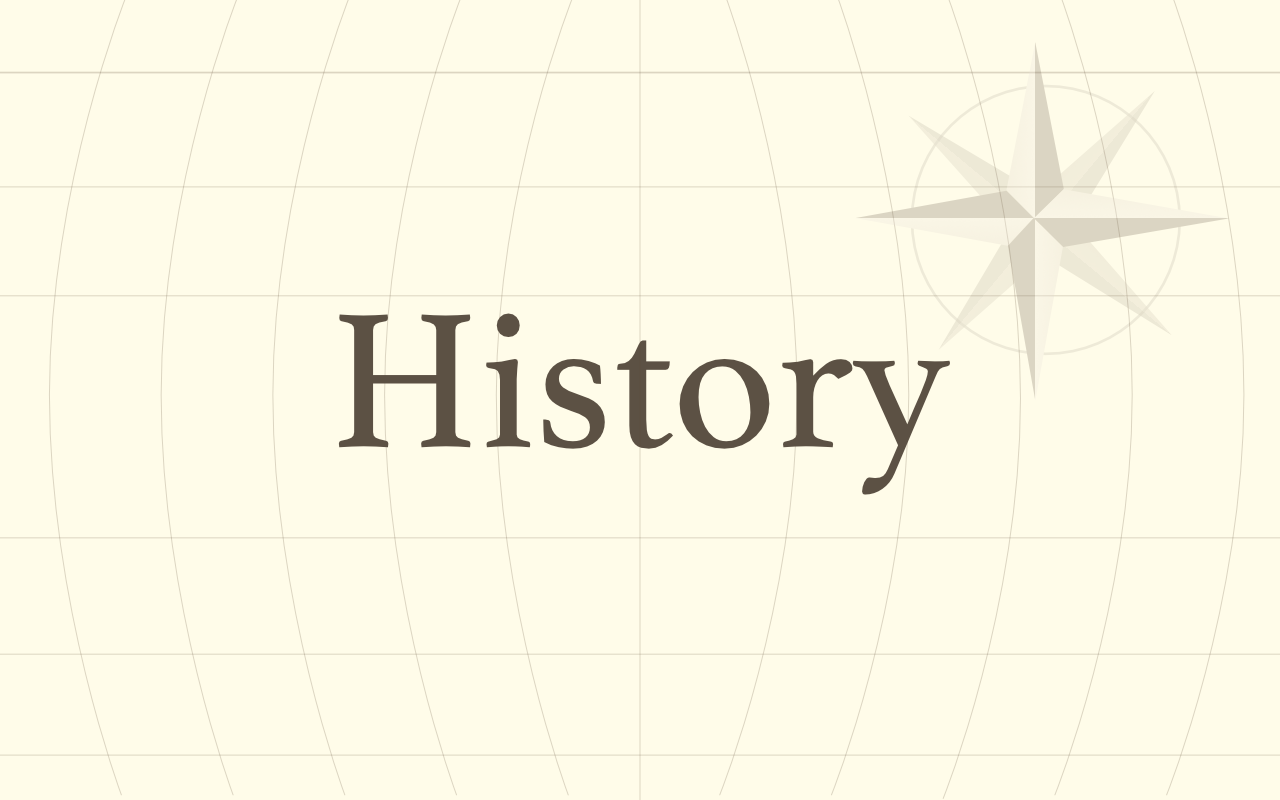
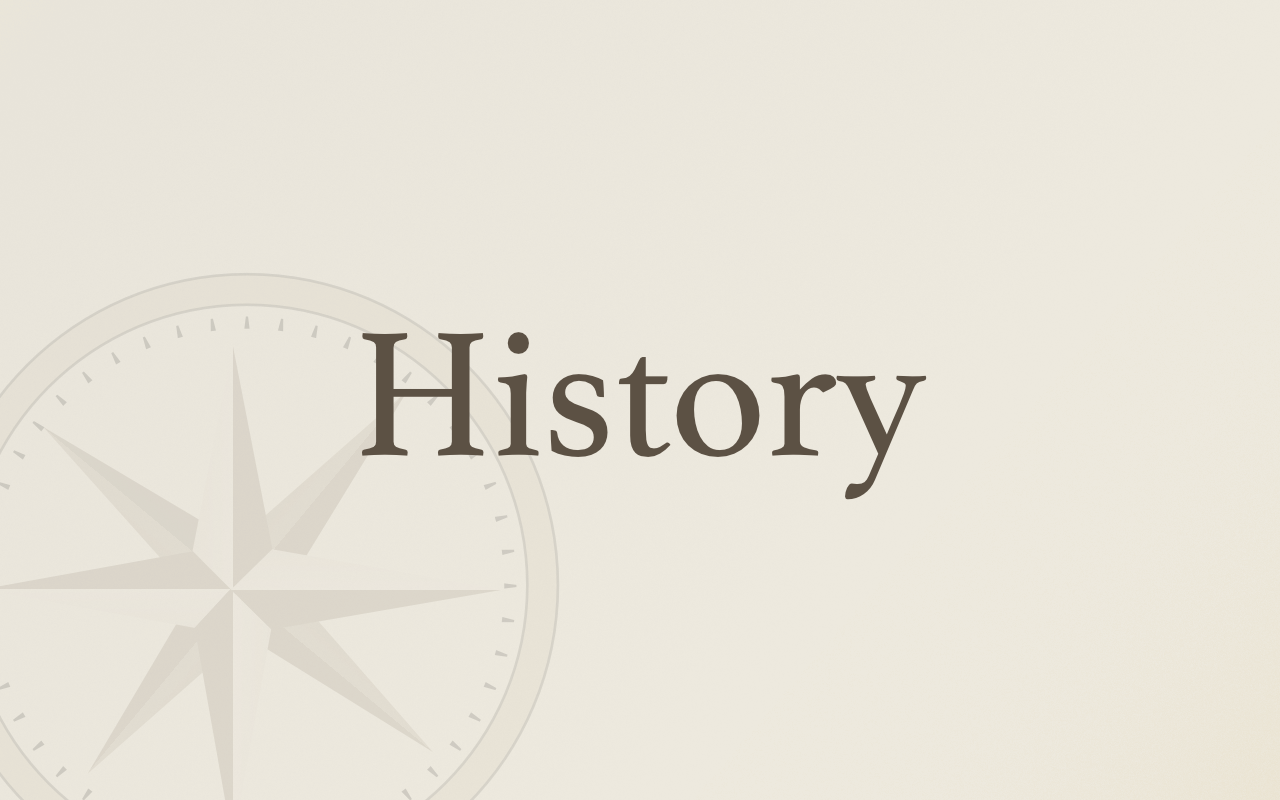
Add category images

diff --git a/app/assets/stylesheets/modules/_category.scss b/app/assets/stylesheets/modules/_category.scss
@@ -33,9 +33,8 @@
   background-size: cover;
 }
 
-
 .history {
-  @include background-image(image-url("category-pictures/history-test-2.png"));
+  @include background-image(image-url("category-pictures/history.png"));
 }
 
 .political-philosophy {
@@ -48,4 +47,32 @@
 
 .current-events {
   @include background-image(image-url("category-pictures/current-events.png"));
+}
+
+.politics {
+  @include background-image(image-url("category-pictures/politics5.png"));
+}
+
+.economics {
+  @include background-image(image-url("category-pictures/economics.png"));
+}
+
+.essentials {
+  @include background-image(image-url("category-pictures/essentials.png"));
+}
+
+.religion {
+  @include background-image(image-url("category-pictures/religion.png"));
+}
+
+.foreign-affairs {
+  @include background-image(image-url("category-pictures/foreign-affairs.png"));
+}
+
+.law {
+  @include background-image(image-url("category-pictures/law.png"));
+}
+
+.culture {
+  @include background-image(image-url("category-pictures/culture.png"));
 }
